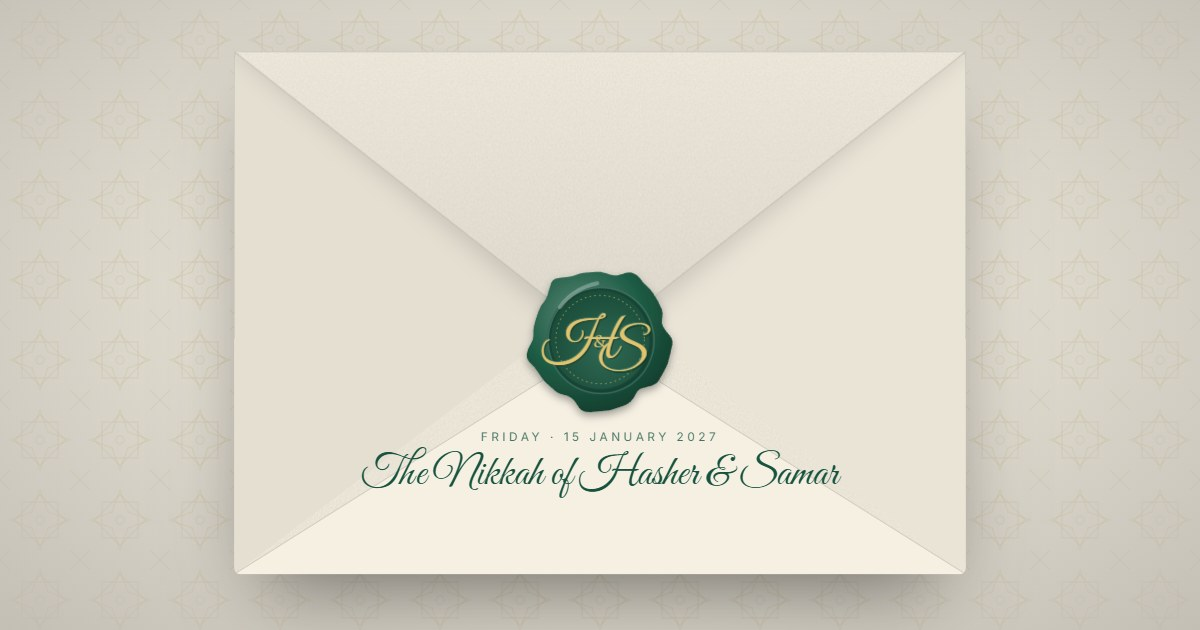
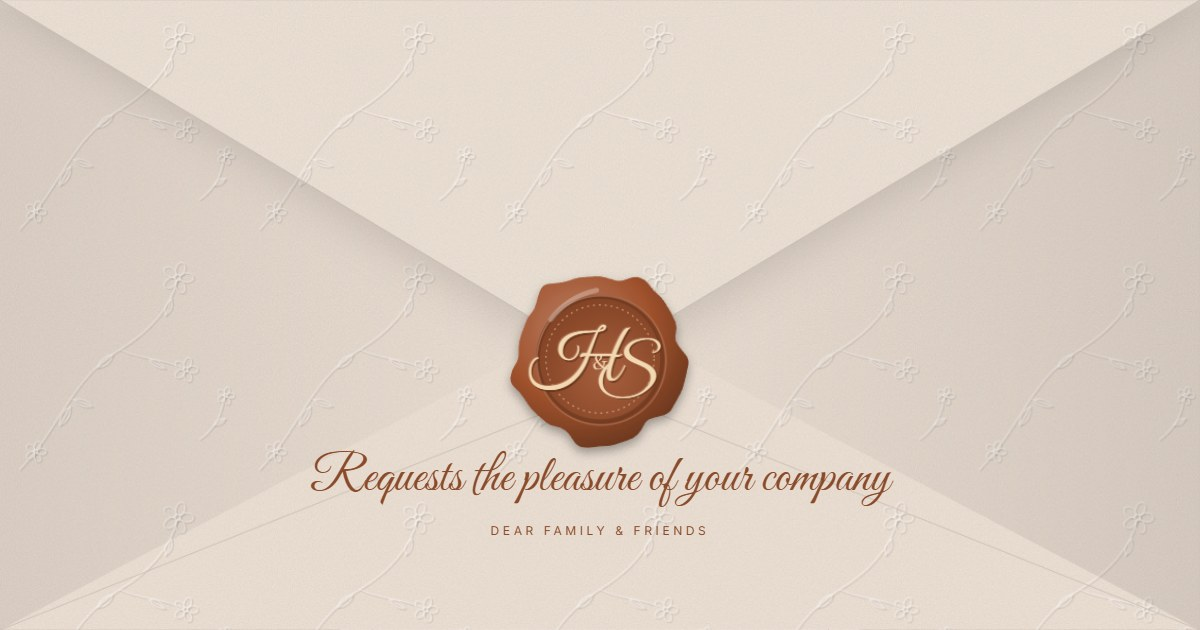
feat: copper colour theme for the Nikkah

diff --git a/src/config/event.ts b/src/config/event.ts
@@ -133,33 +133,33 @@ export const wedding = {
       venue: '786 Mian Shafi Farm House',
       address: 'Canal Bank Housing Scheme, Canal Road, Lahore',
       mapUrl: 'https://www.google.com/maps/search/?api=1&query=786%20Mian%20Shafi%20Farm%20House%2C%20Canal%20Bank%20Housing%20Scheme%2C%20Canal%20Road%2C%20Lahore', // tip: replace with the venue's own Google Maps share link
-      dress: 'Ivory, white & emerald',
+      dress: 'Copper, bronze & ivory',
       notes: 'Nikkah ceremony followed by dinner.', // TODO
       theme: {
-        bg: '#F5F0E3',
-        primary: '#17533F',
-        accent: '#B8902F',
-        ink: '#1E2B24',
-        card: '#FFFCF4',
+        bg: '#F6EDE4',
+        primary: '#8A4B2A',
+        accent: '#9E5D2A',
+        ink: '#3A2418',
+        card: '#FFF9F3',
         pattern: 'geometric',
       },
       outfit: {
-        bride: { dress: '#F8EEDC', top: '#F1E2C6', dupatta: '#1F6B4F', trim: '#C9A24A' },
-        groom: { coat: '#EADFC6', trim: '#B8902F', pants: '#F4EDDC' },
+        bride: { dress: '#B5713F', top: '#A2622F', dupatta: '#D9A066', trim: '#E8C27A' },
+        groom: { coat: '#C68A57', trim: '#E3C07A', pants: '#F2E6D6' },
       },
-      envelope: { paper: '#F6F0E2', liner: '#17533F', seal: '#1E5C45', sealInk: '#E2C46E', ink: '#17533F' },
+      envelope: { paper: '#F3E6DA', liner: '#8A4B2A', seal: '#A0522D', sealInk: '#F3D9B1', ink: '#8A4B2A' },
       scene: {
-        skyTop: '#E9D7B2',
-        skyBottom: '#FBF5E8',
-        glow: '#FFF7E2',
-        building: '#F0E4CB',
-        frame: '#F4ECDC',
-        frameTrim: '#C9A24A',
-        curtain: '#1D5A43',
-        curtainTrim: '#D9B860',
-        flower: '#FBF6EC',
-        flower2: '#EFDDBA',
-        leaf: '#AFA274',
+        skyTop: '#E7C3A0',
+        skyBottom: '#FBF0E4',
+        glow: '#FFF1DC',
+        building: '#EED9C4',
+        frame: '#F3E5D8',
+        frameTrim: '#B87333',
+        curtain: '#8A4B2A',
+        curtainTrim: '#E3B778',
+        flower: '#F7E7D6',
+        flower2: '#E3AE7C',
+        leaf: '#9C9468',
       },
     },
     {
